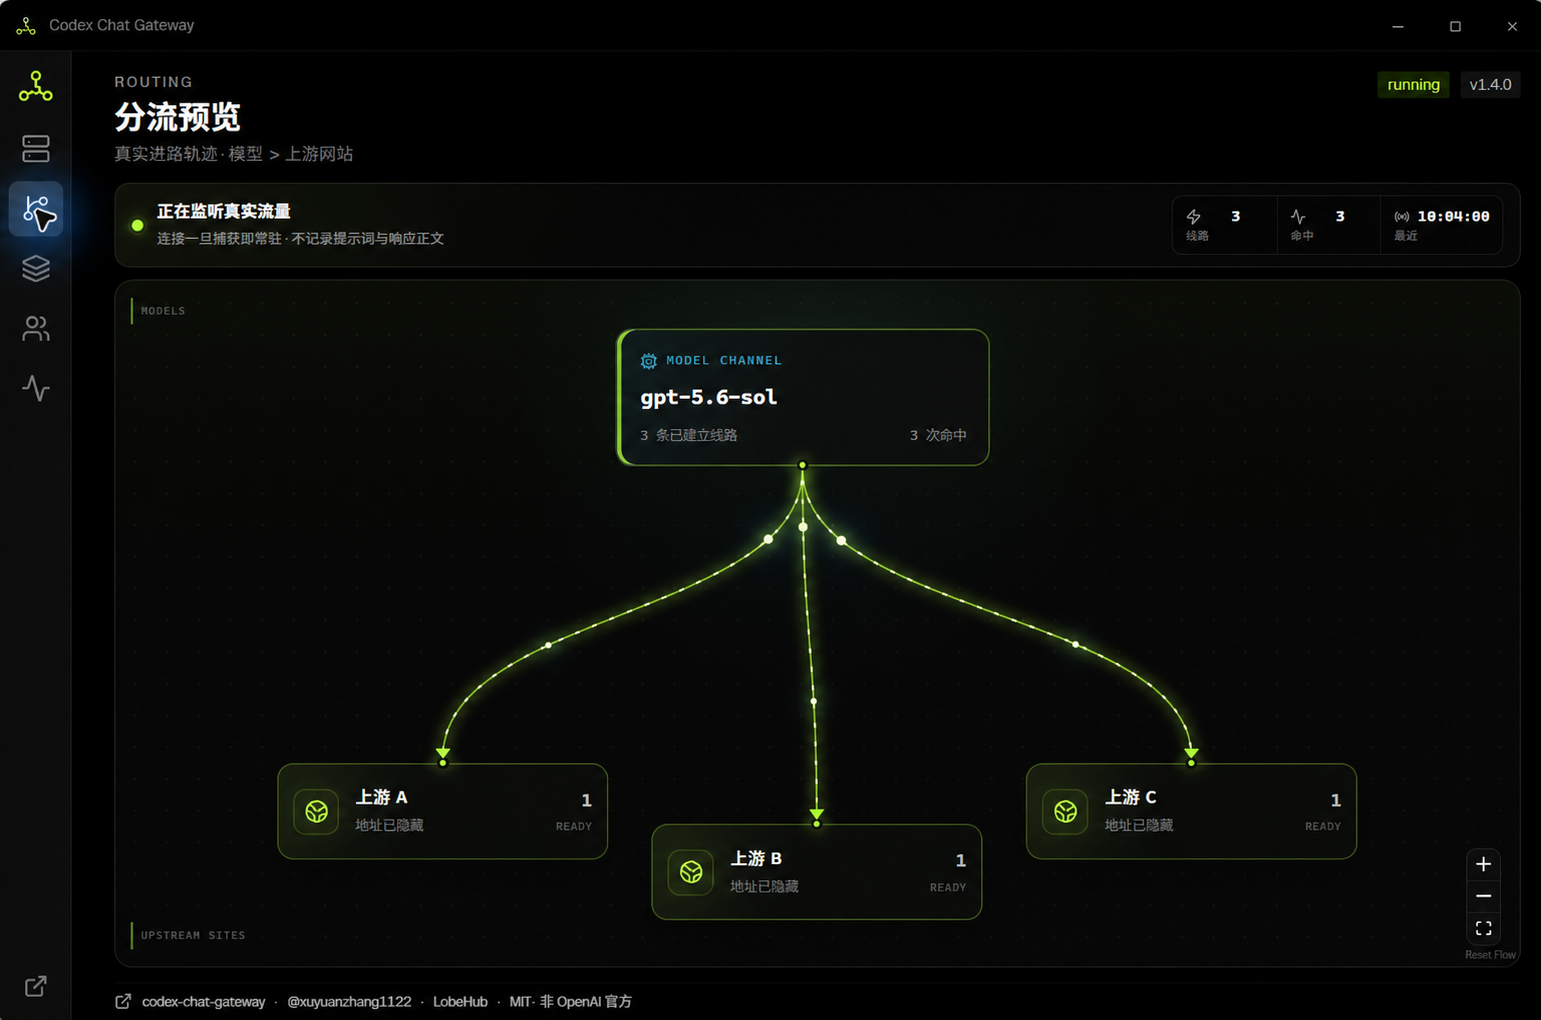
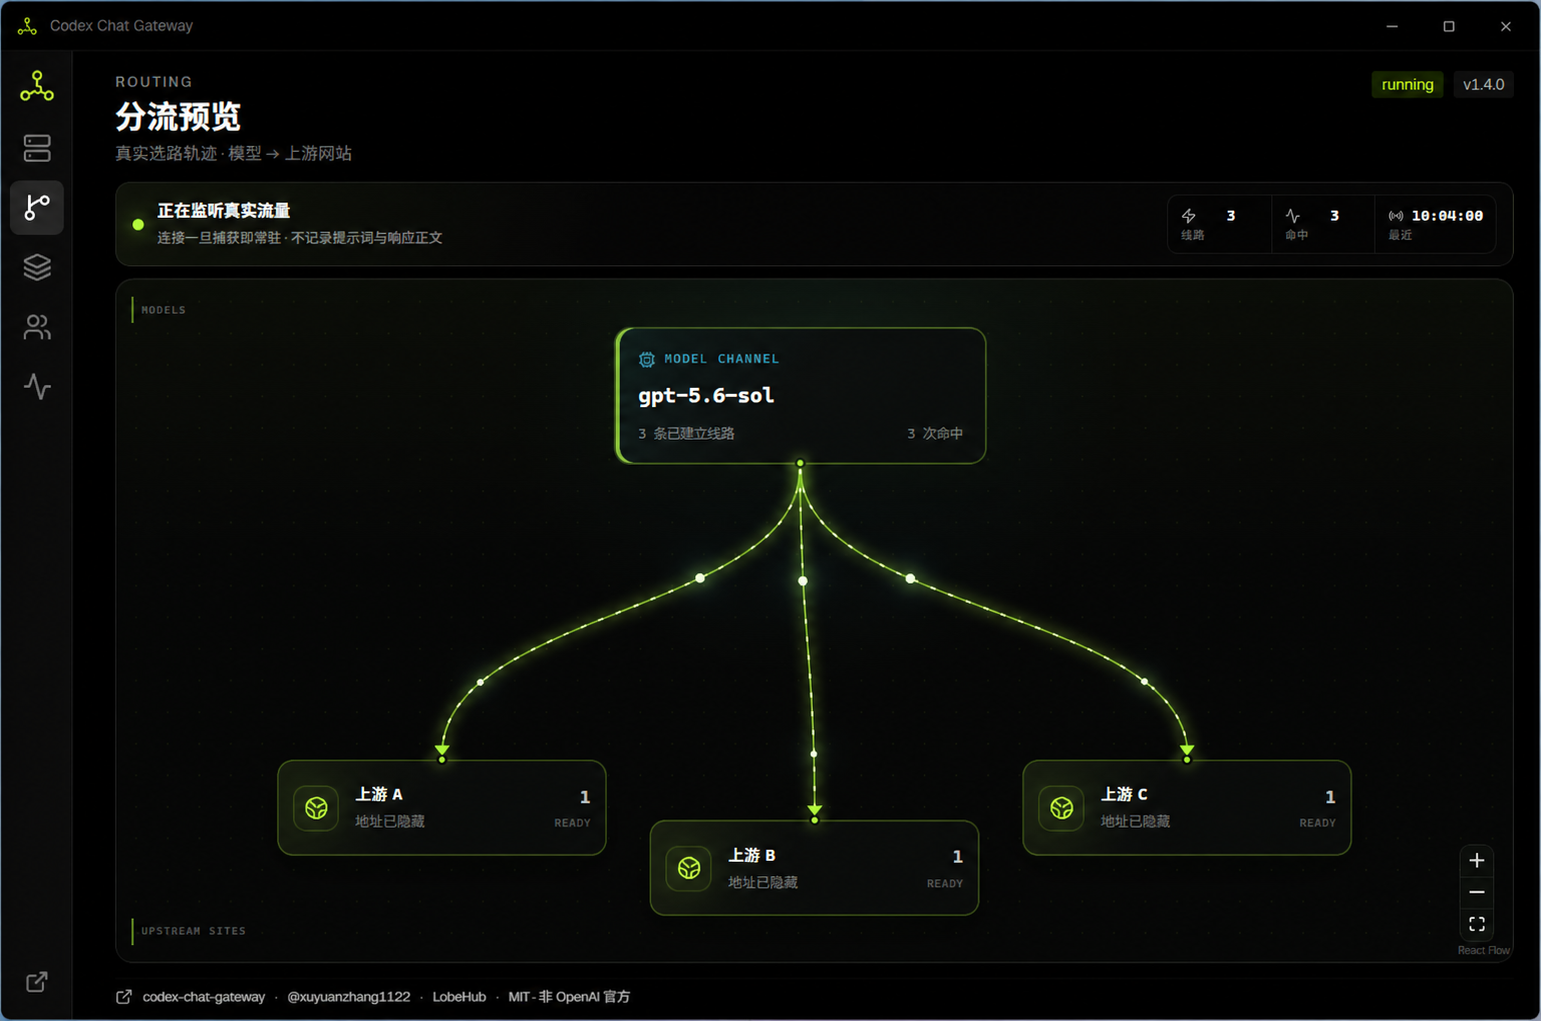
docs: replace screenshots with privacy-safe captures

diff --git a/README.md b/README.md
@@ -58,6 +58,14 @@ Once a request uses a route, its animated connection stays on the map. This make
   <img src="docs/assets/studio-routing-preview-v1.4.0.png" width="920" alt="Live model to upstream routing preview">
 </p>
 
+### Client wiring and updates
+
+Configure or restore Codex and Claude Desktop independently, manage login autostart, and check signed Studio updates from one page. Client restore keeps unrelated MCP servers and profiles intact.
+
+<p align="center">
+  <img src="docs/assets/studio-clients-v1.4.0.png" width="920" alt="Codex and Claude Desktop client wiring">
+</p>
+
 ## What is this
 
 Codex speaks the Responses API. Claude Desktop's Code mode speaks Anthropic Messages. Most third-party models only offer OpenAI-style Chat Completions — so good models sit unused because the protocols don't line up.

diff --git a/README.zh-CN.md b/README.zh-CN.md
@@ -58,6 +58,14 @@
   <img src="docs/assets/studio-routing-preview-v1.4.0.png" width="920" alt="模型到上游网站的实时分流预览">
 </p>
 
+### 客户端接入与更新
+
+Codex 和 Claude Desktop 可分别配置或恢复官方模式，并在同一页管理登录自启和签名更新检查；恢复操作会保留无关的 MCP 与其他 Profile。
+
+<p align="center">
+  <img src="docs/assets/studio-clients-v1.4.0.png" width="920" alt="Codex 与 Claude Desktop 客户端接入">
+</p>
+
 ## 这是什么
 
 Codex 只认 Responses API，Claude Desktop 的 Code 模式只认 Anthropic Messages——而你手里的第三方模型，大多只提供 OpenAI 风格的 Chat Completions。协议对不上，好模型就用不上。